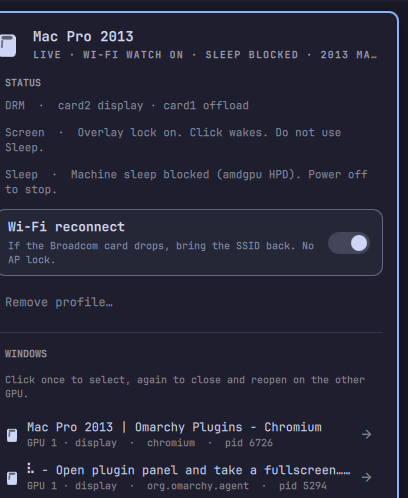
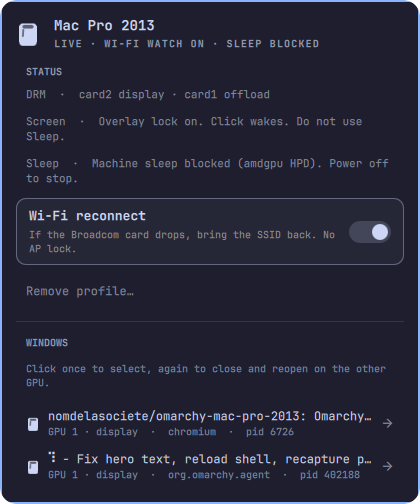
Fix listing crop: full rounded panel, no leftover chrome.
Hero meta no longer appends '2013 Mac Pro' so the subtitle is not
cut to '2013 MA…'. Preview is a rounded-rect mask of the real widget.

diff --git a/Panel.qml b/Panel.qml
@@ -236,7 +236,7 @@ Panel {
                     ? "One Apply. Dual FirePro, sleep, Wi-Fi. This is the whole setup."
                     : (macpro.needsReboot
                        ? "Profile is in. Finish this job, then reboot (not logout)."
-                       : (macpro.sleepSummary + (macpro.offloadCount > 0 ? (" · " + macpro.offloadCount + " on GPU 2") : " · 2013 Mac Pro")))
+                       : macpro.sleepSummary)
               foreground: root.foreground
               fontFamily: root.fontFamily
               iconComponent: Component {
